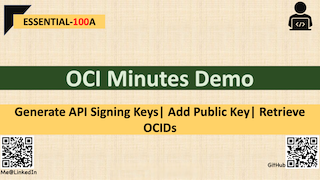
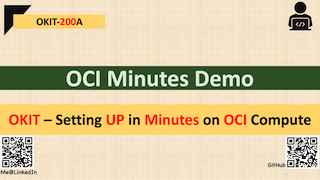
updated on Sun Nov 22 16:35:59 +08 2020

Changed region(s): [[0.0312, 0.5833, 0.9688, 0.75], [0.0625, 0.0833, 0.3125, 0.1389]]

diff --git a/README.md b/README.md
@@ -14,7 +14,7 @@
 |             |                |                                      |                                                              |               |
 | Marketplace |                | MKT-200A-NET                         | OpenVPN on OCI                                               | Working       |
 |             |                |                                      |                                                              |               |
-|             |                |                                      |                                                              |               |
+| Automation  | OKIT           | [OKIT-200A](OKIT-200A)               | OKIT - Setting UP in Minutes on OCI Compute                  | Working       |
 
 
 

diff --git a/OKIT-200A/README.md b/OKIT-200A/README.md
@@ -11,9 +11,10 @@ The demo will launch an Compute instance and run **OKIT** (Oracle Designer ToolK
 
 ## Architecture
 
- <img src="img/OKIT-200A_arch_orig_800x800.png" alt="home" style="zoom:100%;" />
+<img src="img/OKIT-200A_arch_orig_800x800.png" alt="OKIT-200A" style="zoom: 70%;" />
 
 ## Steps
+
 - Launch Compute VM in Subnet_Public
 - Install git,docker and okit
 - Get API Private key and create config
